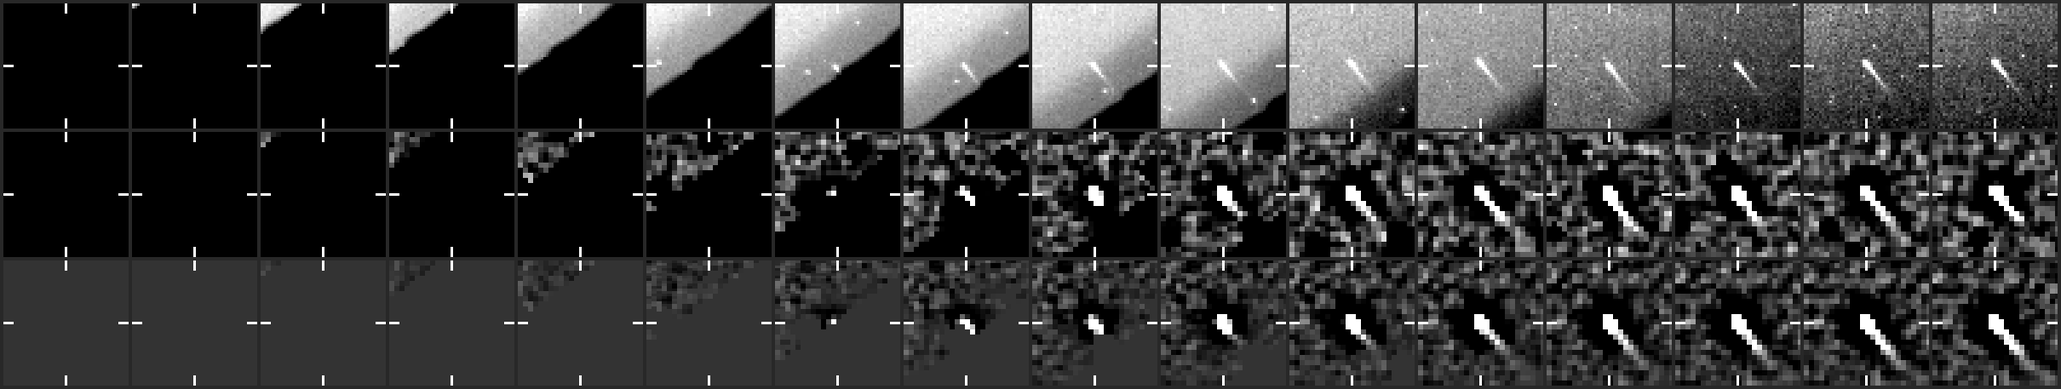
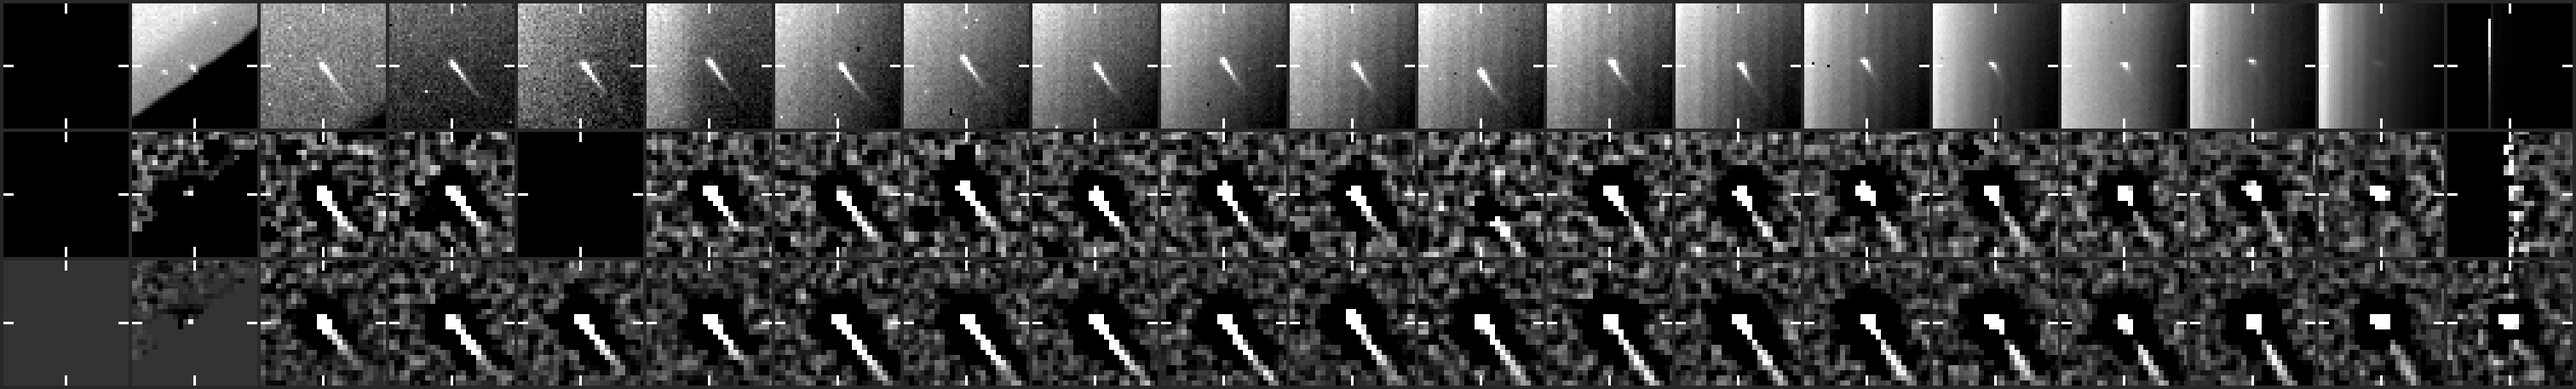
Live find 20261112T0030_1688_1866: hunter's package

diff --git a/results/ccor1/live-finds/20261112T0030_1688_1866/README.md b/results/ccor1/live-finds/20261112T0030_1688_1866/README.md
@@ -1,11 +1,11 @@
 # CCOR-1 candidate 20261112T0030_1688_1866
 
-**9 frames, 2026-11-12 00:30 to 02:30 UTC, peak 238 sigma, brightening.**
+**103 frames, 2026-11-12 00:30 to 2026-11-13 02:45 UTC, peak 265 sigma, brightening.**
 
 - Detected by the kreutz shift-and-stack search (8 frames stacked along the fitted motion); status candidate, alert tier since 01:15 UTC.
-- Motion (-6.0, -4.3) px per 15-min frame, 7.4 px/frame.
-- Last position 1090 px from the Sun at position angle -54 deg, heading 19 deg off the Sun direction (Kreutz comets in CCOR-1 arrive from the lower right, position angle -10 to -45 deg, and head within ~20 deg of the Sun).
-- No CCOR-1 or CCOR-2 report matches it on the Sungrazer site.
+- Motion (-5.9, -5.2) px per 15-min frame, 7.9 px/frame.
+- Last position 366 px from the Sun at position angle -80 deg, heading 38 deg off the Sun direction (Kreutz comets in CCOR-1 arrive from the lower right, position angle -10 to -45 deg, and head within ~20 deg of the Sun).
+- Matches NEW USER's CCOR-1 report `report_nu_20261111234439` (posted 2026-11-12T04:44+00:00; our alert came 3.1 h before it; we were following it 3.4 h before the post).
 
 ## Movie
 
@@ -44,6 +44,100 @@ The last column is what the track became here on that frame: spark (two bright h
 | 2026-11-12 | 0200 | 1652 | 1840 | 194.8 |  |
 | 2026-11-12 | 0215 | 1646 | 1836 | 237.6 |  |
 | 2026-11-12 | 0230 | 1640 | 1832 | 231.5 |  |
+| 2026-11-12 | 0245 | 1634 | 1828 | 221.2 |  |
+| 2026-11-12 | 0300 | 1628 | 1822 | 237.6 |  |
+| 2026-11-12 | 0315 | 1622 | 1818 | 259.1 |  |
+| 2026-11-12 | 0330 | 1616 | 1814 | 246.5 |  |
+| 2026-11-12 | 0345 | 1610 | 1808 | 243.9 |  |
+| 2026-11-12 | 0400 | 1604 | 1804 | 253.8 |  |
+| 2026-11-12 | 0415 | 1598 | 1800 | 258.9 |  |
+| 2026-11-12 | 0515 | 1574 | 1782 | 138.6 |  |
+| 2026-11-12 | 0530 | 1570 | 1776 | 144.6 |  |
+| 2026-11-12 | 0545 | 1564 | 1772 | 145.5 |  |
+| 2026-11-12 | 0600 | 1558 | 1768 | 150.5 |  |
+| 2026-11-12 | 0615 | 1552 | 1762 | 151.2 |  |
+| 2026-11-12 | 0630 | 1546 | 1758 | 189.0 |  |
+| 2026-11-12 | 0645 | 1540 | 1754 | 225.0 |  |
+| 2026-11-12 | 0700 | 1534 | 1748 | 246.6 |  |
+| 2026-11-12 | 0715 | 1528 | 1744 | 242.0 |  |
+| 2026-11-12 | 0730 | 1522 | 1738 | 254.2 |  |
+| 2026-11-12 | 0745 | 1518 | 1734 | 244.9 |  |
+| 2026-11-12 | 0800 | 1512 | 1730 | 246.5 |  |
+| 2026-11-12 | 0815 | 1506 | 1726 | 258.8 |  |
+| 2026-11-12 | 0830 | 1500 | 1720 | 252.1 |  |
+| 2026-11-12 | 0845 | 1494 | 1716 | 257.8 |  |
+| 2026-11-12 | 0900 | 1490 | 1712 | 263.1 |  |
+| 2026-11-12 | 0915 | 1482 | 1706 | 260.7 |  |
+| 2026-11-12 | 0930 | 1476 | 1700 | 257.3 |  |
+| 2026-11-12 | 0945 | 1472 | 1696 | 242.6 |  |
+| 2026-11-12 | 1000 | 1466 | 1692 | 249.4 |  |
+| 2026-11-12 | 1015 | 1460 | 1686 | 259.5 |  |
+| 2026-11-12 | 1030 | 1454 | 1680 | 264.2 |  |
+| 2026-11-12 | 1045 | 1448 | 1676 | 264.2 |  |
+| 2026-11-12 | 1100 | 1442 | 1670 | 264.6 |  |
+| 2026-11-12 | 1115 | 1436 | 1666 | 264.6 |  |
+| 2026-11-12 | 1130 | 1430 | 1660 | 263.2 |  |
+| 2026-11-12 | 1145 | 1426 | 1658 | 235.0 |  |
+| 2026-11-12 | 1200 | 1420 | 1652 | 238.2 |  |
+| 2026-11-12 | 1215 | 1414 | 1648 | 220.4 |  |
+| 2026-11-12 | 1230 | 1408 | 1642 | 241.6 |  |
+| 2026-11-12 | 1245 | 1404 | 1638 | 235.8 |  |
+| 2026-11-12 | 1300 | 1396 | 1630 | 245.7 |  |
+| 2026-11-12 | 1315 | 1392 | 1626 | 226.8 |  |
+| 2026-11-12 | 1330 | 1384 | 1620 | 225.3 |  |
+| 2026-11-12 | 1345 | 1378 | 1616 | 262.5 |  |
+| 2026-11-12 | 1400 | 1374 | 1610 | 252.1 |  |
+| 2026-11-12 | 1415 | 1366 | 1604 | 257.5 |  |
+| 2026-11-12 | 1430 | 1362 | 1600 | 264.0 |  |
+| 2026-11-12 | 1445 | 1356 | 1594 | 264.6 |  |
+| 2026-11-12 | 1500 | 1350 | 1586 | 194.5 |  |
+| 2026-11-12 | 1515 | 1344 | 1584 | 222.0 |  |
+| 2026-11-12 | 1530 | 1338 | 1578 | 226.8 |  |
+| 2026-11-12 | 1545 | 1332 | 1574 | 226.8 |  |
+| 2026-11-12 | 1600 | 1326 | 1568 | 223.2 |  |
+| 2026-11-12 | 1615 | 1320 | 1562 | 226.8 |  |
+| 2026-11-12 | 1630 | 1314 | 1558 | 226.8 |  |
+| 2026-11-12 | 1645 | 1308 | 1552 | 226.8 |  |
+| 2026-11-12 | 1700 | 1302 | 1546 | 264.6 |  |
+| 2026-11-12 | 1715 | 1296 | 1540 | 264.6 |  |
+| 2026-11-12 | 1730 | 1292 | 1536 | 263.3 |  |
+| 2026-11-12 | 1745 | 1284 | 1530 | 264.6 |  |
+| 2026-11-12 | 1800 | 1278 | 1524 | 264.6 |  |
+| 2026-11-12 | 1815 | 1274 | 1520 | 264.6 |  |
+| 2026-11-12 | 1830 | 1268 | 1514 | 264.6 |  |
+| 2026-11-12 | 1845 | 1260 | 1508 | 264.6 |  |
+| 2026-11-12 | 1900 | 1254 | 1502 | 264.6 |  |
+| 2026-11-12 | 1915 | 1250 | 1498 | 264.6 |  |
+| 2026-11-12 | 1930 | 1244 | 1492 | 264.6 |  |
+| 2026-11-12 | 1945 | 1238 | 1486 | 264.6 |  |
+| 2026-11-12 | 2000 | 1230 | 1480 | 263.2 |  |
+| 2026-11-12 | 2015 | 1226 | 1474 | 261.1 |  |
+| 2026-11-12 | 2030 | 1220 | 1468 | 264.6 |  |
+| 2026-11-12 | 2045 | 1214 | 1462 | 263.9 |  |
+| 2026-11-12 | 2100 | 1206 | 1456 | 261.6 |  |
+| 2026-11-12 | 2115 | 1200 | 1450 | 264.6 |  |
+| 2026-11-12 | 2130 | 1194 | 1444 | 264.6 |  |
+| 2026-11-12 | 2145 | 1188 | 1438 | 264.6 |  |
+| 2026-11-12 | 2200 | 1182 | 1432 | 264.6 |  |
+| 2026-11-12 | 2215 | 1176 | 1426 | 264.6 |  |
+| 2026-11-12 | 2230 | 1170 | 1420 | 264.6 |  |
+| 2026-11-12 | 2245 | 1164 | 1414 | 264.6 |  |
+| 2026-11-12 | 2300 | 1158 | 1408 | 264.6 |  |
+| 2026-11-12 | 2315 | 1152 | 1402 | 264.6 |  |
+| 2026-11-12 | 2330 | 1146 | 1396 | 264.1 |  |
+| 2026-11-12 | 2345 | 1140 | 1390 | 258.1 |  |
+| 2026-11-13 | 0000 | 1134 | 1384 | 246.6 |  |
+| 2026-11-13 | 0015 | 1128 | 1376 | 245.6 |  |
+| 2026-11-13 | 0030 | 1122 | 1370 | 213.7 |  |
+| 2026-11-13 | 0045 | 1116 | 1362 | 209.7 |  |
+| 2026-11-13 | 0100 | 1110 | 1356 | 192.7 |  |
+| 2026-11-13 | 0115 | 1104 | 1350 | 184.2 |  |
+| 2026-11-13 | 0130 | 1098 | 1344 | 142.2 |  |
+| 2026-11-13 | 0145 | 1090 | 1336 | 120.9 |  |
+| 2026-11-13 | 0200 | 1084 | 1330 | 94.8 |  |
+| 2026-11-13 | 0215 | 1078 | 1324 | 77.3 |  |
+| 2026-11-13 | 0230 | 1072 | 1318 | 53.3 |  |
+| 2026-11-13 | 0245 | 1068 | 1308 | 37.7 |  |
 
 Form layout (HHMM x y):
 
@@ -57,6 +151,100 @@ Form layout (HHMM x y):
 0200 1652 1840
 0215 1646 1836
 0230 1640 1832
+0245 1634 1828
+0300 1628 1822
+0315 1622 1818
+0330 1616 1814
+0345 1610 1808
+0400 1604 1804
+0415 1598 1800
+0515 1574 1782
+0530 1570 1776
+0545 1564 1772
+0600 1558 1768
+0615 1552 1762
+0630 1546 1758
+0645 1540 1754
+0700 1534 1748
+0715 1528 1744
+0730 1522 1738
+0745 1518 1734
+0800 1512 1730
+0815 1506 1726
+0830 1500 1720
+0845 1494 1716
+0900 1490 1712
+0915 1482 1706
+0930 1476 1700
+0945 1472 1696
+1000 1466 1692
+1015 1460 1686
+1030 1454 1680
+1045 1448 1676
+1100 1442 1670
+1115 1436 1666
+1130 1430 1660
+1145 1426 1658
+1200 1420 1652
+1215 1414 1648
+1230 1408 1642
+1245 1404 1638
+1300 1396 1630
+1315 1392 1626
+1330 1384 1620
+1345 1378 1616
+1400 1374 1610
+1415 1366 1604
+1430 1362 1600
+1445 1356 1594
+1500 1350 1586
+1515 1344 1584
+1530 1338 1578
+1545 1332 1574
+1600 1326 1568
+1615 1320 1562
+1630 1314 1558
+1645 1308 1552
+1700 1302 1546
+1715 1296 1540
+1730 1292 1536
+1745 1284 1530
+1800 1278 1524
+1815 1274 1520
+1830 1268 1514
+1845 1260 1508
+1900 1254 1502
+1915 1250 1498
+1930 1244 1492
+1945 1238 1486
+2000 1230 1480
+2015 1226 1474
+2030 1220 1468
+2045 1214 1462
+2100 1206 1456
+2115 1200 1450
+2130 1194 1444
+2145 1188 1438
+2200 1182 1432
+2215 1176 1426
+2230 1170 1420
+2245 1164 1414
+2300 1158 1408
+2315 1152 1402
+2330 1146 1396
+2345 1140 1390
+0000 1134 1384
+0015 1128 1376
+0030 1122 1370
+0045 1116 1362
+0100 1110 1356
+0115 1104 1350
+0130 1098 1344
+0145 1090 1336
+0200 1084 1330
+0215 1078 1324
+0230 1072 1318
+0245 1068 1308
 ```
 
 ## Movie frames
@@ -65,18 +253,123 @@ Sigma inside the ring on the fitted position vs the brightest 0.1% of the whole 
 
 | frame | ring | tail | |
 |---|---|---|---|
-| 20261111T233025 | 0.0 | 5.1 |  |
-| 20261111T234525 | 0.0 | 4.6 |  |
-| 20261112T000025 | 0.0 | 4.4 |  |
-| 20261112T001525 | 9.9 | 4.7 |  |
-| 20261112T003025 | 38.0 | 5.3 | hit |
-| 20261112T004525 | 60.4 | 6.4 | hit |
-| 20261112T010025 | 83.8 | 14.6 | hit |
-| 20261112T011525 | 114.9 | 27.4 | hit |
-| 20261112T013025 | 150.1 | 38.1 | hit |
-| 20261112T014525 | 183.1 | 47.5 | hit |
-| 20261112T020025 | 217.6 | 53.1 | hit |
-| 20261112T021525 | 252.9 | 62.7 | hit |
-| 20261112T023025 | 267.3 | 69.2 | hit |
+| 20261111T233025 | 0.0 | 5.4 |  |
+| 20261111T234525 | 0.0 | 5.4 |  |
+| 20261112T000025 | 0.0 | 5.4 |  |
+| 20261112T001525 | 9.9 | 5.5 |  |
+| 20261112T003025 | 38.0 | 5.4 | hit |
+| 20261112T004525 | 60.4 | 5.5 | hit |
+| 20261112T010025 | 83.8 | 5.4 | hit |
+| 20261112T011525 | 114.9 | 5.6 | hit |
+| 20261112T013025 | 150.1 | 5.6 | hit |
+| 20261112T014525 | 183.1 | 5.6 | hit |
+| 20261112T020025 | 217.6 | 5.5 | hit |
+| 20261112T021525 | 252.9 | 5.5 | hit |
+| 20261112T023025 | 267.3 | 5.5 | hit |
+| 20261112T024525 | 274.8 | 5.5 | hit |
+| 20261112T030025 | 278.0 | 5.7 | hit |
+| 20261112T031525 | 278.0 | 5.9 | hit |
+| 20261112T033025 | 278.1 | 6.2 | hit |
+| 20261112T034525 | 280.5 | 6.2 | hit |
+| 20261112T040025 | 281.4 | 6.1 | hit |
+| 20261112T041525 | 281.4 | 7.6 | hit |
+| 20261112T043025 | 246.0 | 7.4 |  |
+| 20261112T044525 | 212.1 | 7.3 |  |
+| 20261112T050025 | 176.8 | 6.8 |  |
+| 20261112T051525 | 165.0 | 7.5 | hit |
+| 20261112T053025 | 165.0 | 7.6 | hit |
+| 20261112T054525 | 165.0 | 7.8 | hit |
+| 20261112T060025 | 165.0 | 7.9 | hit |
+| 20261112T061525 | 165.0 | 6.7 | hit |
+| 20261112T063025 | 200.3 | 6.9 | hit |
+| 20261112T064525 | 234.0 | 7.1 | hit |
+| 20261112T070025 | 269.4 | 7.3 | hit |
+| 20261112T071525 | 279.8 | 6.0 | hit |
+| 20261112T073025 | 273.1 | 5.6 | hit |
+| 20261112T074525 | 273.1 | 5.6 | hit |
+| 20261112T080025 | 273.1 | 5.5 | hit |
+| 20261112T081525 | 273.1 | 5.4 | hit |
+| 20261112T083025 | 273.1 | 5.3 | hit |
+| 20261112T084525 | 274.5 | 5.3 | hit |
+| 20261112T090025 | 274.5 | 5.3 | hit |
+| 20261112T091525 | 272.5 | 5.3 | hit |
+| 20261112T093025 | 275.6 | 5.3 | hit |
+| 20261112T094525 | 275.6 | 5.2 | hit |
+| 20261112T100025 | 275.6 | 5.2 | hit |
+| 20261112T101525 | 275.6 | 5.2 | hit |
+| 20261112T103025 | 275.6 | 5.2 | hit |
+| 20261112T104525 | 276.0 | 5.2 | hit |
+| 20261112T110025 | 276.0 | 5.2 | hit |
+| 20261112T111525 | 279.3 | 5.2 | hit |
+| 20261112T113025 | 281.6 | 5.3 | hit |
+| 20261112T114525 | 264.0 | 5.4 | hit |
+| 20261112T120025 | 264.0 | 5.4 | hit |
+| 20261112T121525 | 260.2 | 5.5 | hit |
+| 20261112T123025 | 260.2 | 5.5 | hit |
+| 20261112T124525 | 259.7 | 5.4 | hit |
+| 20261112T130025 | 259.7 | 5.4 | hit |
+| 20261112T131525 | 259.7 | 5.4 | hit |
+| 20261112T133025 | 260.9 | 5.3 | hit |
+| 20261112T134525 | 276.7 | 5.4 | hit |
+| 20261112T140025 | 276.7 | 5.4 | hit |
+| 20261112T141525 | 275.7 | 5.4 | hit |
+| 20261112T143025 | 275.7 | 5.4 | hit |
+| 20261112T144525 | 276.2 | 5.3 | hit |
+| 20261112T150025 | 241.2 | 5.4 | hit |
+| 20261112T151525 | 241.2 | 5.5 | hit |
+| 20261112T153025 | 241.2 | 5.5 | hit |
+| 20261112T154525 | 243.1 | 5.4 | hit |
+| 20261112T160025 | 243.1 | 5.4 | hit |
+| 20261112T161525 | 247.8 | 5.4 | hit |
+| 20261112T163025 | 247.8 | 5.4 | hit |
+| 20261112T164525 | 247.8 | 5.4 | hit |
+| 20261112T170025 | 282.8 | 5.5 | hit |
+| 20261112T171525 | 282.8 | 5.5 | hit |
+| 20261112T173025 | 282.8 | 5.5 | hit |
+| 20261112T174525 | 282.8 | 5.6 | hit |
+| 20261112T180025 | 282.8 | 5.5 | hit |
+| 20261112T181525 | 282.8 | 5.5 | hit |
+| 20261112T183025 | 282.8 | 5.6 | hit |
+| 20261112T184525 | 282.8 | 5.5 | hit |
+| 20261112T190025 | 282.8 | 5.5 | hit |
+| 20261112T191525 | 282.8 | 5.5 | hit |
+| 20261112T193025 | 282.8 | 5.4 | hit |
+| 20261112T194525 | 282.8 | 5.5 | hit |
+| 20261112T200025 | 282.8 | 5.5 | hit |
+| 20261112T201525 | 282.8 | 5.4 | hit |
+| 20261112T203025 | 282.8 | 5.3 | hit |
+| 20261112T204525 | 282.2 | 5.4 | hit |
+| 20261112T210025 | 282.2 | 5.3 | hit |
+| 20261112T211525 | 282.2 | 5.6 | hit |
+| 20261112T213025 | 282.2 | 5.5 | hit |
+| 20261112T214525 | 282.2 | 5.5 | hit |
+| 20261112T220025 | 282.2 | 5.5 | hit |
+| 20261112T221525 | 282.2 | 5.5 | hit |
+| 20261112T223025 | 282.2 | 5.5 | hit |
+| 20261112T224525 | 282.8 | 5.4 | hit |
+| 20261112T230025 | 282.8 | 5.5 | hit |
+| 20261112T231525 | 282.8 | 5.5 | hit |
+| 20261112T233025 | 282.4 | 5.4 | hit |
+| 20261112T234525 | 276.8 | 5.4 | hit |
+| 20261113T000025 | 266.0 | 5.4 | hit |
+| 20261113T001525 | 263.2 | 5.4 | hit |
+| 20261113T003025 | 259.0 | 5.3 | hit |
+| 20261113T004525 | 240.9 | 5.5 | hit |
+| 20261113T010025 | 219.7 | 5.4 | hit |
+| 20261113T011525 | 196.1 | 5.4 | hit |
+| 20261113T013025 | 168.8 | 5.4 | hit |
+| 20261113T014525 | 147.3 | 5.3 | hit |
+| 20261113T020025 | 127.5 | 5.4 | hit |
+| 20261113T021525 | 98.3 | 5.3 | hit |
+| 20261113T023025 | 68.0 | 5.3 | hit |
+| 20261113T024525 | 52.9 | 5.4 | hit |
+| 20261113T030025 | 38.6 | 5.6 |  |
+| 20261113T031525 | 27.0 | 6.0 |  |
+| 20261113T033025 | 19.3 | 6.0 |  |
+| 20261113T034516 | 12.5 | 6.0 |  |
+| 20261113T040016 | 9.5 | 6.5 |  |
+| 20261113T041516 | 5.7 | 7.4 |  |
+| 20261113T043016 | 3.3 | 7.3 |  |
+| 20261113T044516 | 3.3 | 6.7 |  |
 
-*Written 2026-11-12 02:51 UTC.*
+*Written 2026-11-13 05:25 UTC.*
